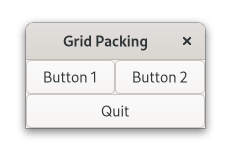
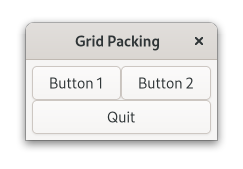
Add to README, change screenshots and add margins.

diff --git a/examples/grid_packing/main.rs b/examples/grid_packing/main.rs
@@ -2,30 +2,38 @@ use gtk::glib::clone;
 use gtk::prelude::*;
 
 fn build_ui(application: &gtk::Application) {
-    // Create a new window, and set its title
+    // Create a new window, set its title and default size
     let window = gtk::ApplicationWindow::new(application);
     window.set_title(Some("Grid Packing"));
+    window.set_default_size(100, 100);
 
-    // Here we construct the grid that is going contain our buttons
+    // Here we construct the grid that is going contain our buttons and add margins
     let grid = gtk::Grid::new();
+    grid.set_margin_start(6);
+    grid.set_margin_end(6);
+    grid.set_margin_top(6);
+    grid.set_margin_bottom(6);
 
-    // Pack the grid in the window
+    // Add the grid in the window
     window.set_child(Some(&grid));
 
-    // Create the first button and put it into the grid at (0, 0)
+    // Create the first button, make it expand and put it into the grid at (0, 0)
     let button_1 = gtk::Button::with_label("Button 1");
     button_1.connect_clicked(move |_| println!("Hello World"));
+
     grid.attach(&button_1, 0, 0, 1, 1);
 
-    // Create the second button and put it into the grid at (1, 0)
+    // Create the second button, make it expand and put it into the grid at (1, 0)
     let button_2 = gtk::Button::with_label("Button 2");
     button_2.connect_clicked(move |_| println!("Hello World"));
+
     grid.attach(&button_2, 1, 0, 1, 1);
 
-    // Create the exit button and put it into the grid at (0, 1)
-    let exit_button = gtk::Button::with_label("Quit");
-    exit_button.connect_clicked(clone!(@weak window => move |_| window.destroy()));
-    grid.attach(&exit_button, 0, 1, 2, 1);
+    // Create the quit button, make it expand and put it into the grid at (0, 1)
+    let quit_button = gtk::Button::with_label("Quit");
+    quit_button.connect_clicked(clone!(@weak window => move |_| window.destroy()));
+
+    grid.attach(&quit_button, 0, 1, 2, 1);
 
     window.show();
 }

diff --git a/examples/README.md b/examples/README.md
@@ -17,6 +17,7 @@ Consists of various examples to get familiar with writing GTK applications using
 - [Entry Completion](./entry_completion/)
 - [Entry Undo](./entry_undo/)
 - [FlowBox](./flow_box/)
+- [Grid Packing](./grid_packing)
 - [GtkBuilder example](./gtk_builder/)
 - [ListView: Applications Launcher](./list_view_apps_launcher/)
 - [TextView](./text_viewer/)
